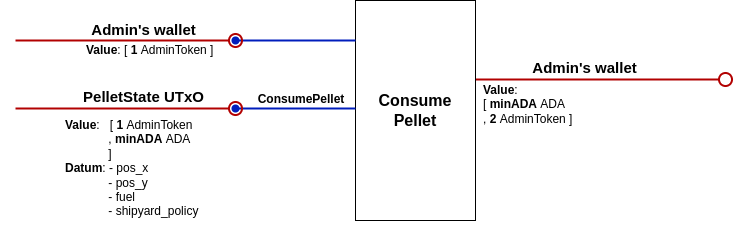
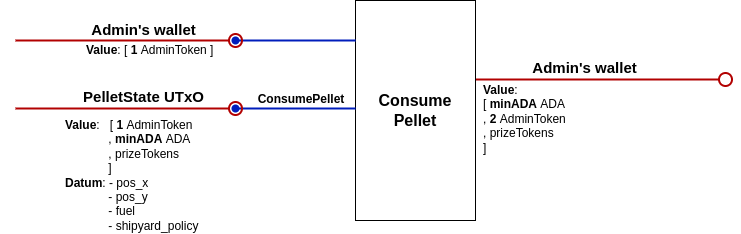
updated mvp doc.

diff --git a/onchain/docs/mvp-design/design.md b/onchain/docs/mvp-design/design.md
@@ -57,6 +57,7 @@ Each ship will be identified by a `ShipToken`, with a fixed policy id but a toke
 >
 >- minADA
 >- `AdminToken`
+>- prizeTokens
 
 ### Asteria Utxo:
 
@@ -86,7 +87,7 @@ This transaction creates the unique `AsteriaUtxo` locking min ada and an `AdminT
 
 ### Create a PelletState UTxO
 
-Creates one `PelletState` UTxO locking min ada and an `AdminToken`, setting in the datum the `pos_x` and `pos_y` coordinates where the pellet will be located on the grid and the `fuel` value equal to some initial value.
+Creates one `PelletState` UTxO locking min ada, an `AdminToken` and some extra tokens ("prize tokens") that ship owners can retrieve besides gathering fuel when they reach the pellet. Also sets the `pos_x` and `pos_y` datum coordinates where the pellet will be located on the grid and the `fuel` value equal to some initial value.
 
 ![createPellet diagram](img/createPellet.png)
 
@@ -104,7 +105,7 @@ Updates the `pos_x`, `pos_y` and `fuel` datum fields of the `ShipState` UTxO by 
 
 ### Gather Fuel
 
-Updates the `fuel` datum field of both the `ShipState` and `PelletState` UTxOs, adding the `amount` (specified in the redeemer) from the first and subtracting it from the latter.
+Updates the `fuel` datum field of both the `ShipState` and `PelletState` UTxOs, adding the `amount` (specified in the redeemer) from the first and subtracting it from the latter. Also allows the ship owner to get any amount of the prize tokens held in the pellet.
 
 ![gatherFuel diagram](img/gatherFuel.png)
 
@@ -164,7 +165,7 @@ Pays the admin the value locked in the `PelletState` UTxO.
 - the amount specified is not greater than the fuel available in the pellet.
 - the amount specified is subtracted from the output `PelletState` fuel datum field, and the other fields remain unchanged.
 - The admin token is present in the input `PelletState`.
-- The `PelletState` value doesn't change.
+- The admin token is present in the output `PelletState`.
 
 #### *ConsumePellet Redeemer*
 
